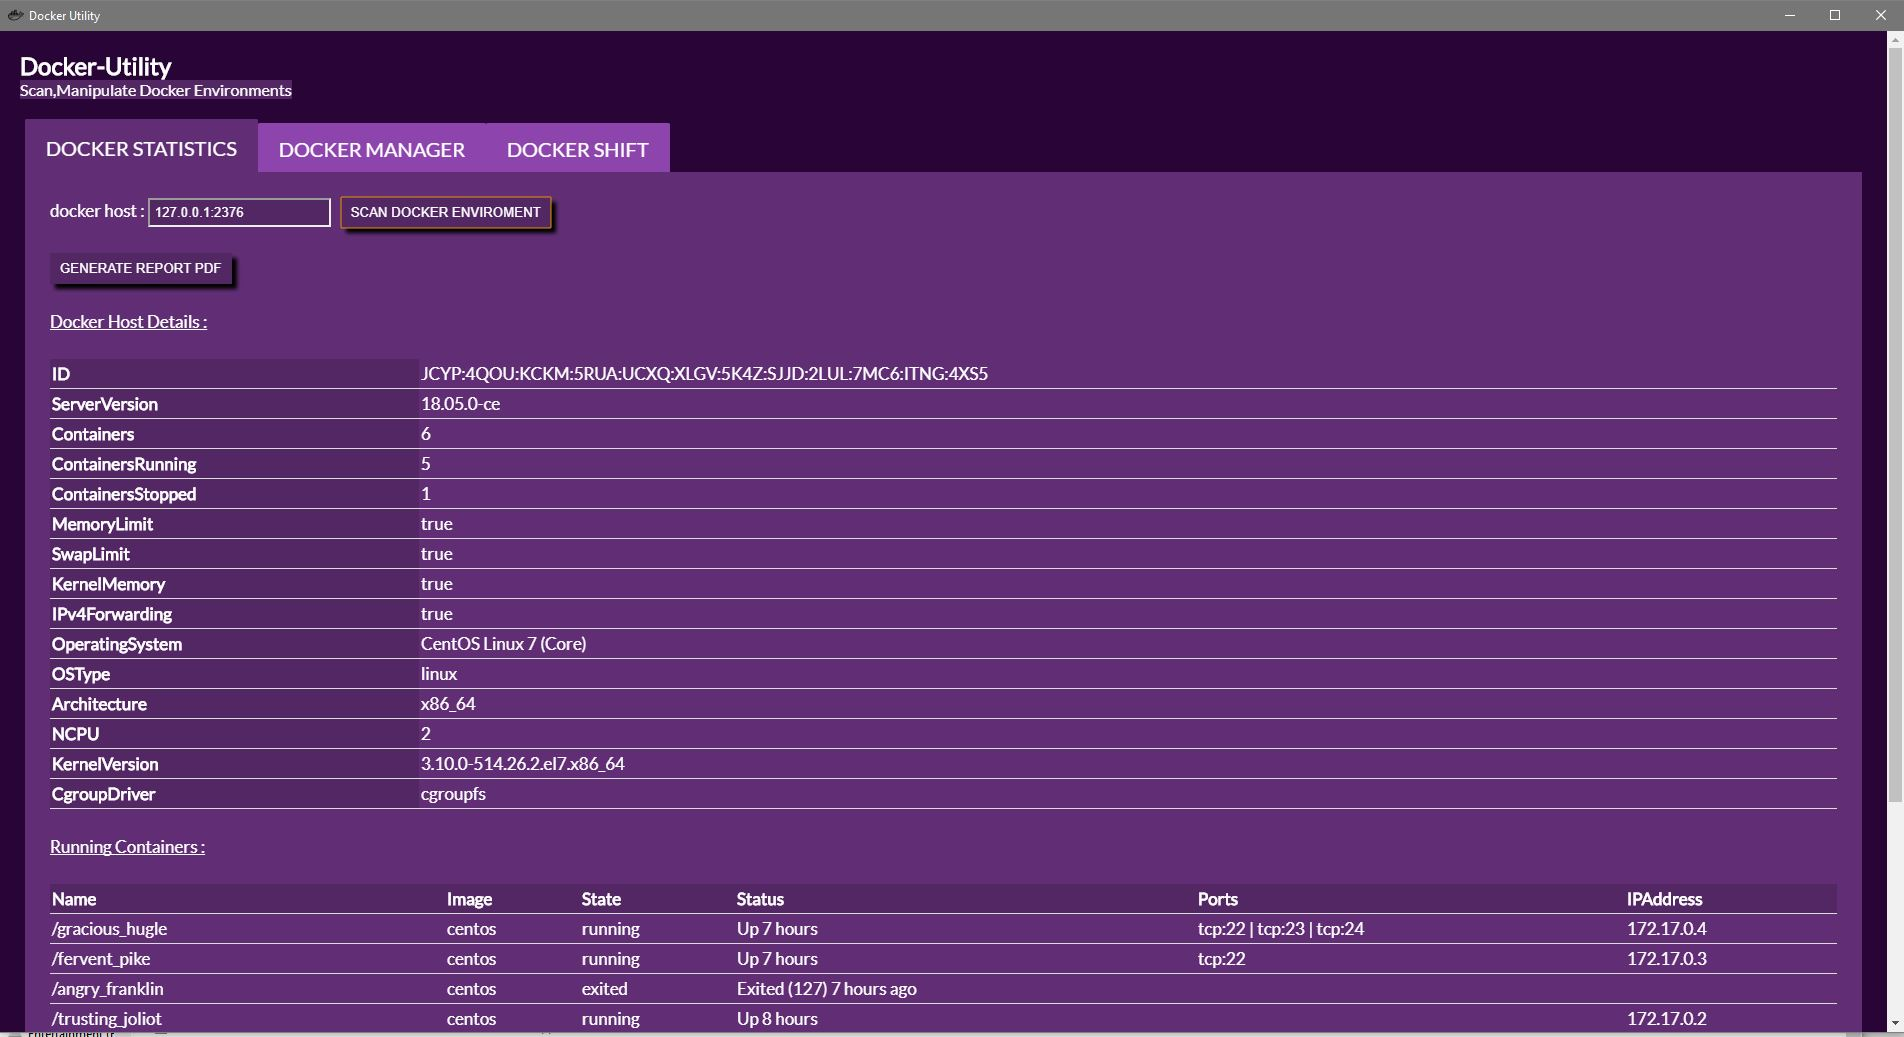
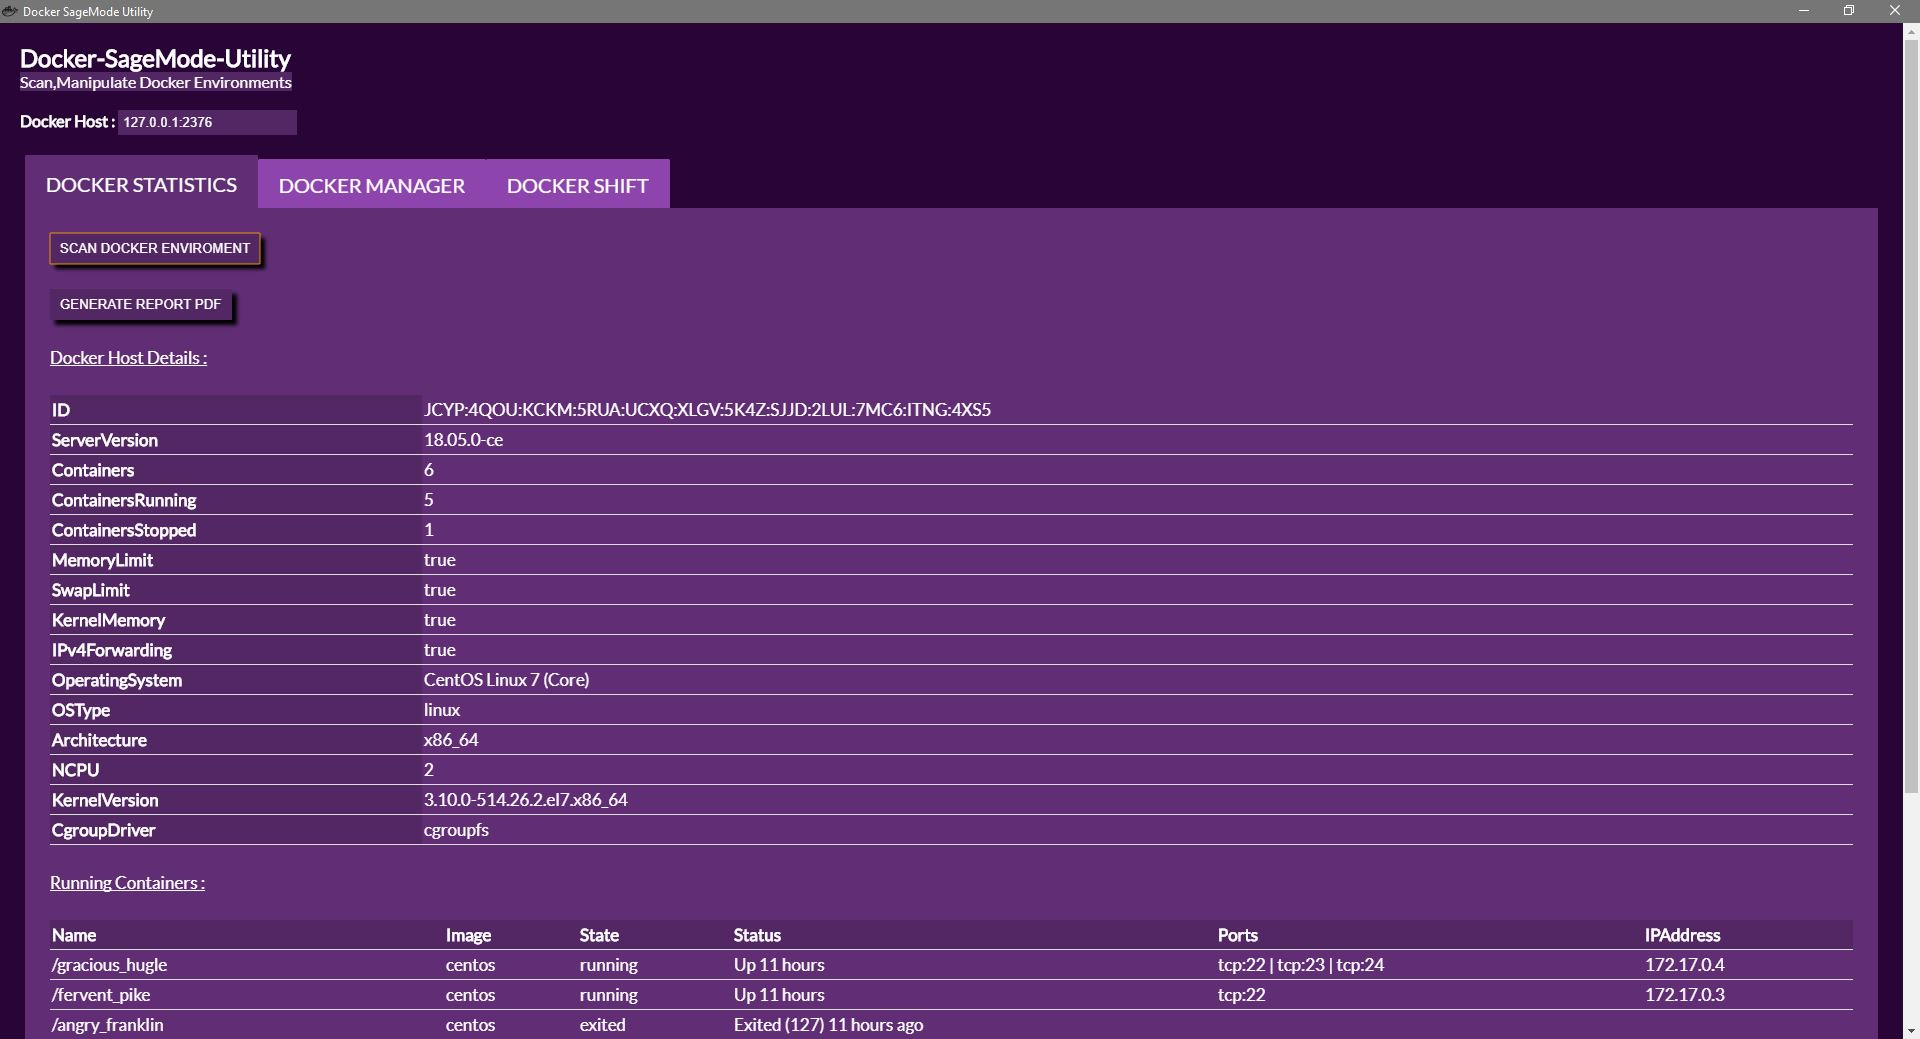
Tool Name Update

Changed region(s): [[0.0, 0.0, 1.0, 1.0], [0.9916, 0.7406, 1.0, 0.7715]]

diff --git a/main.html b/main.html
@@ -3,7 +3,7 @@
 
 <head>
     <meta charset="UTF-8">
-    <title>Docker Utility</title>
+    <title>Docker SageMode Utility</title>
     <script src='assets/js/jquery-2.1.3.js'></script>
     <script src="assets/js/angular-1.6.9.js"></script>
     <script src="assets/js/angular-animate-1.4.0.js"></script>
@@ -19,7 +19,7 @@
 </head>
 
 <body>
-    <h2>Docker-Utility</h2>
+    <h2>Docker-SageMode-Utility</h2>
     <!-- <span>By Arun Kumar</span> -->
     <span style="background-color: #522764">Scan,Manipulate Docker Environments</span><br><br>
     <B>Docker Host :</B>
